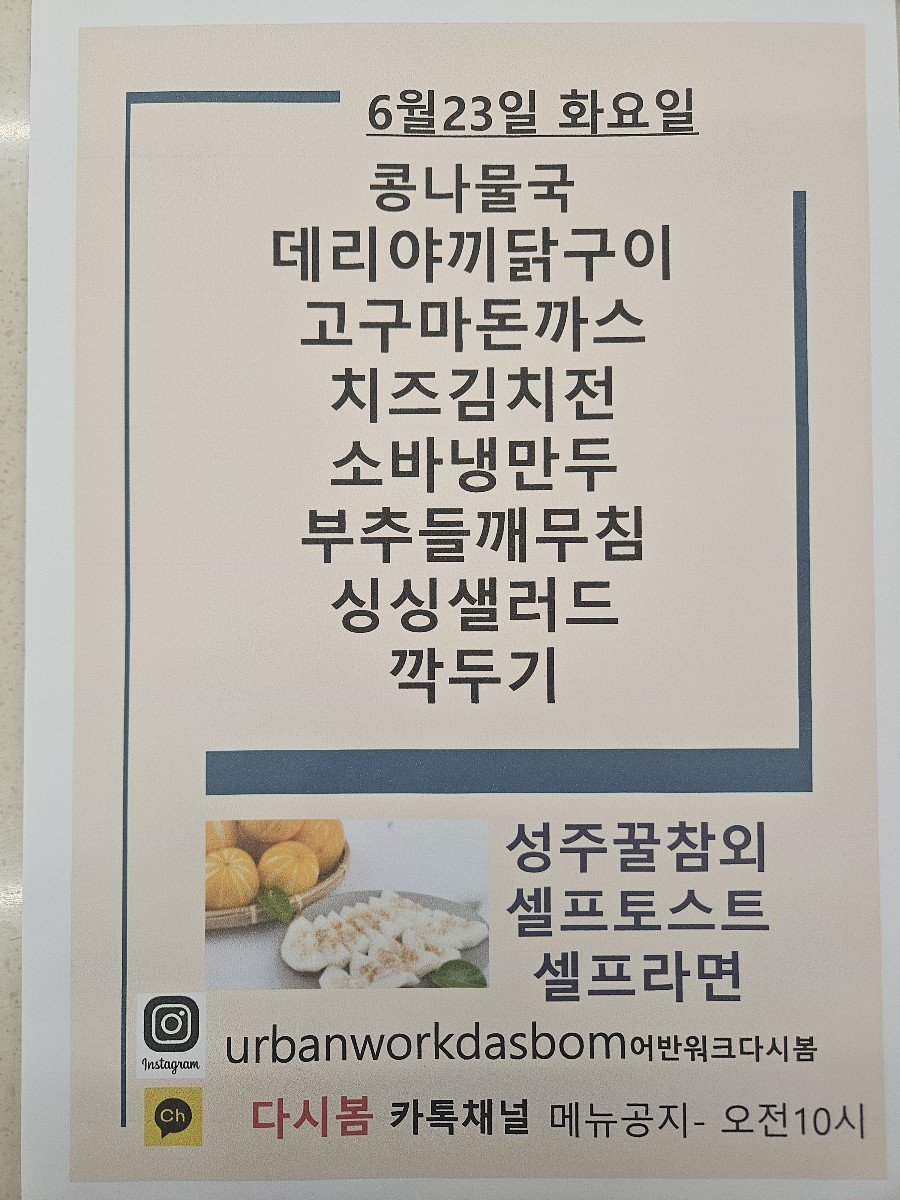
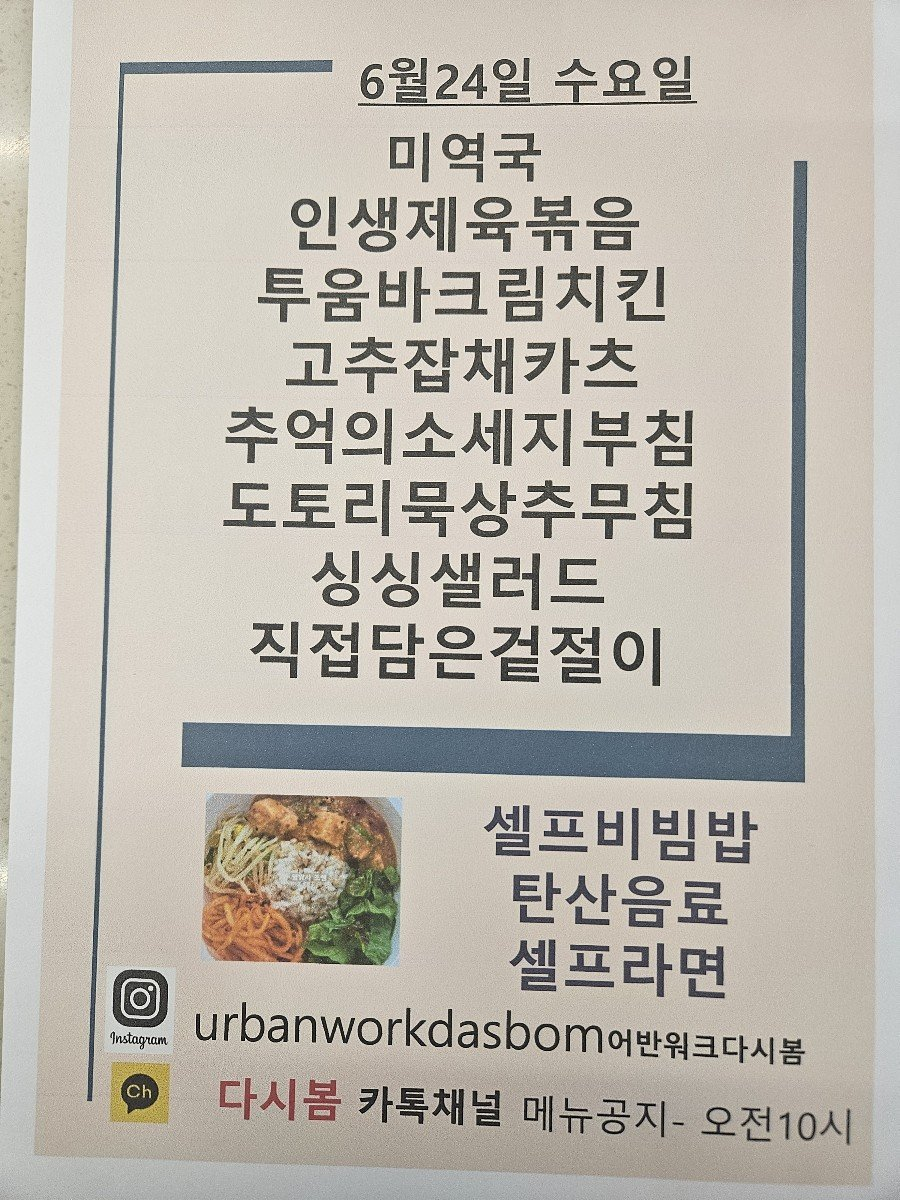
Update menu board assets

diff --git a/menu-today/index.html b/menu-today/index.html
@@ -209,7 +209,7 @@
 
     <section class="meta-bar">
       <div class="meta-card"><div class="meta-label">기준 날짜</div><div class="meta-value">2026년 6월 24일 수요일</div></div>
-      <div class="meta-card"><div class="meta-label">최종 가져온 시간</div><div class="meta-value">2026-06-24 09:33:16</div></div>
+      <div class="meta-card"><div class="meta-label">최종 가져온 시간</div><div class="meta-value">2026-06-24 09:48:16</div></div>
       <div class="meta-card"><div class="meta-label">확인 완료</div><div class="meta-value">9개 식당</div></div>
       <div class="meta-card"><div class="meta-label">준비중</div><div class="meta-value">3개 채널</div></div>
     </section>
@@ -235,7 +235,7 @@
             <div class="sub">가산 어반워크</div>
           </div>
         </div>
-        <div class="menu-inline-image"><img src="./images/dasibom.png" alt="다시 봄 식단 이미지"></div><ul><li>콩나물국</li><li>데리야끼닭구이</li><li>고구마돈까스</li><li>치즈김치전</li><li>소바냉만두</li><li>부추들깨무침</li><li>싱싱샐러드</li><li>성주꿀참외</li><li>증나물국</li><li>데리야끼</li><li>구이</li></ul>
+        <div class="menu-inline-image"><img src="./images/dasibom.png" alt="다시 봄 식단 이미지"></div><ul><li>미역국</li><li>인생제육볶음</li><li>투움바크림치킨</li><li>고추잡채카즈</li><li>추억의소세지부침</li><li>도토리묵상추무침</li><li>싱싱샐러드</li><li>직접담은겉절이</li><li>인생제</li></ul>
       </article>
 
       <article class="restaurant-card">
@@ -295,7 +295,7 @@
             <div class="sub">에이스테크노타워10차</div>
           </div>
         </div>
-        <div class="menu-inline-image"><img src="./images/thefoodsketch.png" alt="더푸드스케치 식단 이미지"></div><ul><li>냉이된장찌개</li><li>소세지계란밀이</li><li>미트볼크림소스</li><li>&gt; 감자떡</li><li>흑임자연근무침</li><li>가든샐러드 / 드레싱</li><li>배추겉절이 / 음료</li><li>감자떡</li></ul>
+        <div class="menu-inline-image"><img src="./images/thefoodsketch.png" alt="더푸드스케치 식단 이미지"></div><ul><li>냉이된장찌개</li><li>소세지계란밀이</li><li>미트볼크림소스</li><li>&gt; 감자떡</li><li>흑임자연근무침</li><li>가든샐러드 &amp; 드레싱</li><li>배추겉절이 / 음료</li><li>감자떡</li></ul>
       </article>
 
       <article class="restaurant-card">

diff --git a/guro-menu/index.html b/guro-menu/index.html
@@ -32,7 +32,7 @@
   </header>
   <section class="meta">
     <div><small>기준 날짜</small><strong>2026년 6월 24일 수요일</strong></div>
-    <div><small>최종 갱신</small><strong>2026-06-24 09:33:30</strong></div>
+    <div><small>최종 갱신</small><strong>2026-06-24 09:48:30</strong></div>
     <div><small>등록 식당</small><strong>5개</strong></div>
   </section>
   <div class="notice">공개 카카오 채널의 메뉴 이미지를 자동 수집하고 OCR로 정리합니다. 텍스트에 오타가 있을 수 있으니 식단 이미지를 함께 확인해 주세요.</div>
